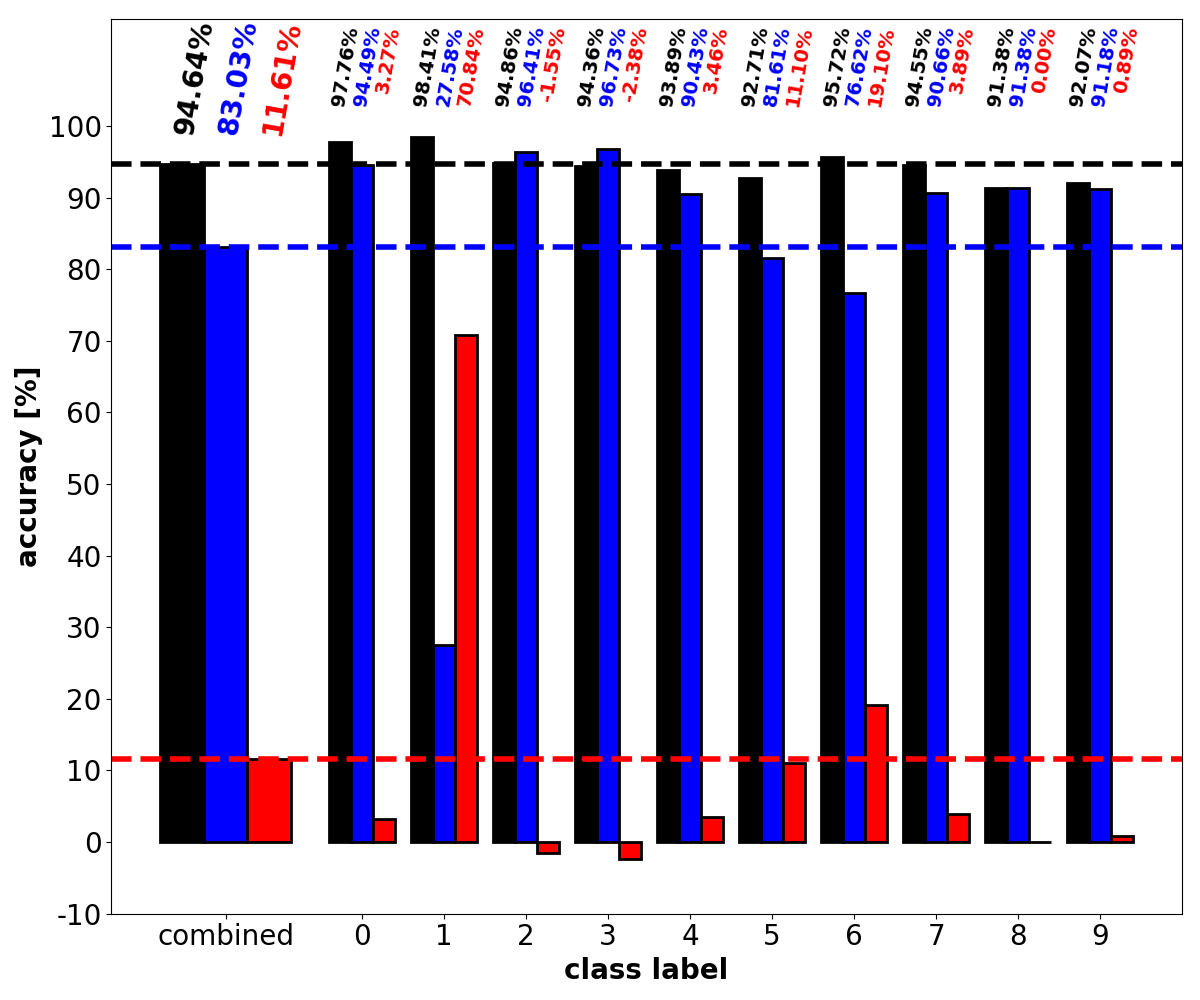
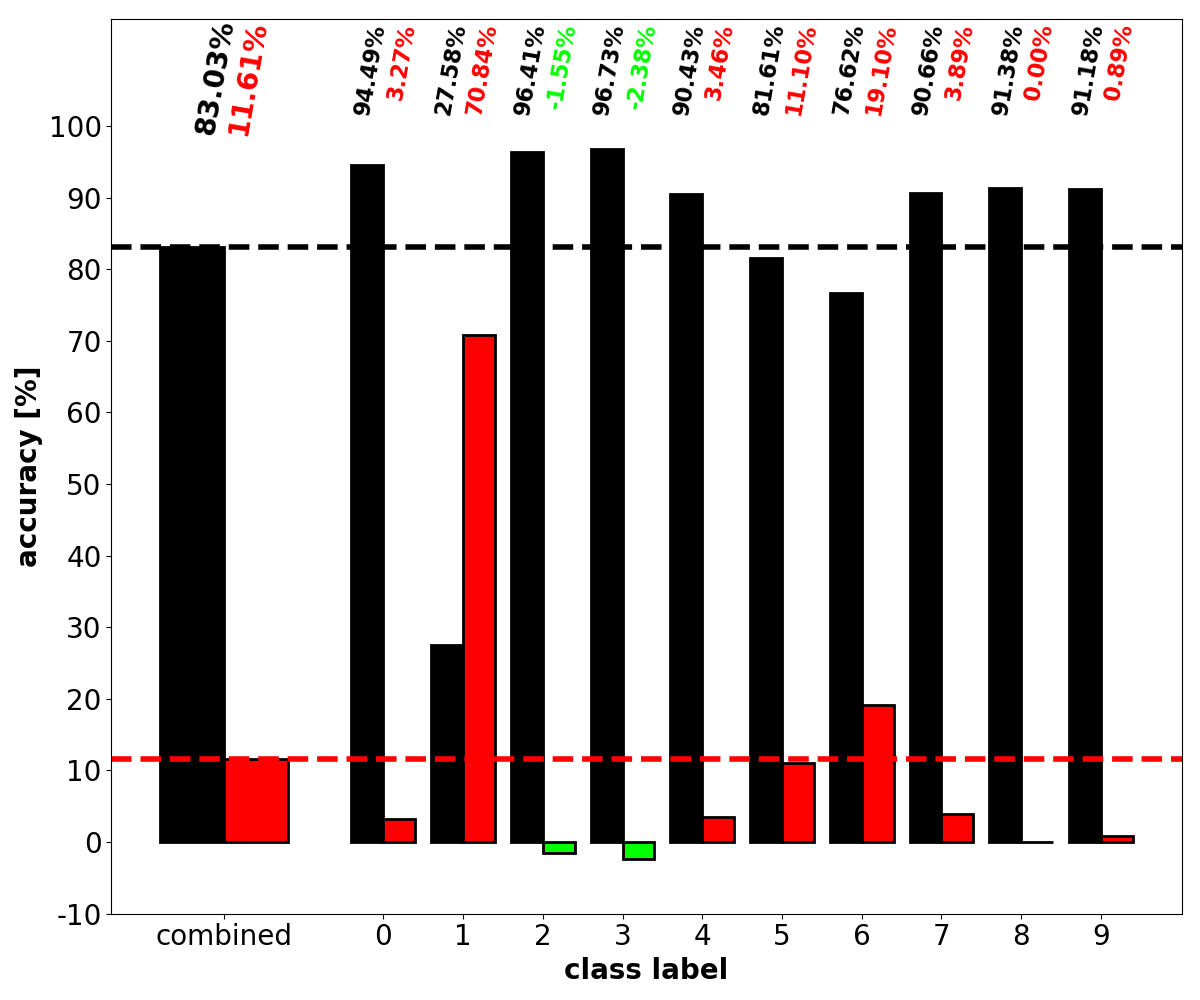
more plots for paper

diff --git a/MNIST/code/plot_knockouts_l1.py b/MNIST/code/plot_knockouts_l1.py
@@ -233,6 +233,51 @@ def plot_unit_class_acc2(accs, accs_class, title, name):
     plt.savefig("../plots/unit_acc_" + name)
     # plt.show()
 
+def plot_unit_class_acc2_paper(accs, accs_class, title, name):
+    fig = plt.figure(figsize=(12, 10))
+    fig.subplots_adjust(left=0.07, right=0.95, top=0.95, bottom=0.05)
+    ax = fig.add_subplot(111)
+
+    bar_pos = np.linspace(-2, 18, 11, endpoint=True)
+    bar_pos[0] -= 2.0
+    bar_widths = np.zeros(11) + 0.8
+    bar_widths[0] += 0.8
+    bar_heights1 = np.insert(accs_class[0]*100, 0, accs[0])
+    bar_heights2 = np.insert((accs_class[0]-accs_class[1]) * 100, 0, accs[0]-accs[1])
+    bar_heights3 = bar_heights1-bar_heights2
+
+    ax.bar(x=bar_pos - 0.5*bar_widths, align='center', height=bar_heights3, width=bar_widths,
+           color='k', edgecolor='k', lw=2)
+    ax.bar(x=bar_pos + 0.5*bar_widths, align='center', height=bar_heights2, width=bar_widths,
+           color='r', edgecolor='k', lw=2)
+    colors = ['k', 'r']
+    for i_bars, bar_heights in enumerate([bar_heights3, bar_heights2]):
+        for i, val in enumerate(bar_heights):
+            if i == 0:
+                ax.text(bar_pos[i]-0.8+0.8*i_bars, 112, "{0:.2f}%".format(val), color=colors[i_bars],
+                        fontsize=20, fontweight='bold', rotation=80)
+            else:
+                if val < 0:
+                    color = 'lime'
+                else:
+                    color = colors[i_bars]
+                ax.text(bar_pos[i] - 0.8 + 0.8*i_bars, 112, "{0:.2f}%".format(val), color=color,
+                        fontsize=16, fontweight='bold', rotation=80)
+    ax.axhline(y=accs[1], ls='--', lw=4, c='k')
+    ax.axhline(y=accs[0]-accs[1], ls='--', lw=4, c='r')
+    ax.set_xlabel("class label", fontsize=20, fontweight='bold')
+    ax.set_ylabel("accuracy [%]", fontsize=20, fontweight='bold')
+    ax.set_yticks(np.linspace(-10, 100, 12, endpoint=True))
+    ax.set_yticklabels(ax.get_yticks().astype(int), fontsize=20)
+    ax.set_xticks(bar_pos)
+    labels = ["combined"] + np.arange(0, 10, 1).tolist()
+    ax.set_xticklabels(labels, fontsize=20)
+    # ax.set_title(title)
+    ax.set_ylim(-10, 115)
+    plt.tight_layout()
+    plt.savefig("../plots/unit_acc_" + name)
+    # plt.show()
+
 
 def plot_activation(testloader, weights, weights_ini, accs_class_full, accs_class, plot_corr_acc_act):
     inputs = testloader.dataset.test_data.numpy()
@@ -368,10 +413,10 @@ if __name__ == "__main__":
 
     device = torch.device("cuda:0" if torch.cuda.is_available() else "cpu")
     """ setting flags """
-    plot_w = True
+    plot_w = False
     plot_tSNE_ = False
     plot_corr_acc_met = False
-    plot_unit_acc = False
+    plot_unit_acc = True
     plot_a = False
     plot_corr_acc_act = False  # has only effect if plot_a is True
     plot_a_split = False
@@ -402,7 +447,7 @@ if __name__ == "__main__":
     # weights = (net.fc1.weight.data.numpy().T + net.fc1.bias.data.numpy()).T  # biases considered
     weights = net_trained.fc1.weight.data.cpu().numpy()
     scale = (np.min(weights), np.max(weights))
-    acc_full, labels, acc_class_full = net_trained.test_net(criterion, testloader, device)
+    acc_full, labels, acc_class_full, _ = net_trained.test_net(criterion, testloader, device)
     if plot_w:
         plot_weights(weights, scale, unit_struct, pixel_metrics, pixel_metrics_untrained,
                      title="trained accuracy: {0}%".format(acc_full), name="full")
@@ -415,7 +460,7 @@ if __name__ == "__main__":
 
     # plot untrained network weights
     weights_ini = net_untrained.fc1.weight.data.cpu().numpy()
-    acc_untrained, _, _ = net_untrained.test_net(criterion, testloader, device)
+    acc_untrained, _, _, _ = net_untrained.test_net(criterion, testloader, device)
     if plot_w:
         plot_weights(weights_ini, scale, unit_struct_untrained, pixel_metrics_untrained, pixel_metrics_untrained,
                      title="untrained accuracy: {0}%".format(acc_untrained), name="0full")
@@ -431,7 +476,7 @@ if __name__ == "__main__":
         net_trained.fc1.weight.data[i_unit, :] = torch.zeros(784)
         # weights = (net.fc1.weight.data.numpy().T + net.fc1.bias.data.numpy()).T  # biases considered
         weights = net_trained.fc1.weight.data.cpu().numpy()
-        acc, labels_ko, acc_class = net_trained.test_net(criterion, testloader, device)
+        acc, labels_ko, acc_class, _ = net_trained.test_net(criterion, testloader, device)
         accuracies[i_unit] = acc
         accuracies_class[i_unit] = acc_class
         unit_labels_ko[i_unit] = labels_ko
@@ -455,7 +500,10 @@ if __name__ == "__main__":
             # plot_unit_class_acc(acc_full-acc, acc_class_full-acc_class,
             #                     title="accuray: {0}%, delta_acc: {1:.2f}%".format(acc_full, acc_full-acc),
             #                     color='r', name="knockout_{0}_delta".format(i_unit+1))
-            plot_unit_class_acc2((acc_full, acc), (acc_class_full, acc_class),
+            # plot_unit_class_acc2((acc_full, acc), (acc_class_full, acc_class),
+            #                     title="knockout_{0} - accuray: {1}%, delta_acc: {2:.2f}%".format(i_unit+1, acc_full, acc_full-acc),
+            #                     name="knockout_{0}_combined".format(i_unit+1))
+            plot_unit_class_acc2_paper((acc_full, acc), (acc_class_full, acc_class),
                                 title="knockout_{0} - accuray: {1}%, delta_acc: {2:.2f}%".format(i_unit+1, acc_full, acc_full-acc),
                                 name="knockout_{0}_combined".format(i_unit+1))
 

diff --git a/MNIST/code/plot_pairwise_knockouts_l1.py b/MNIST/code/plot_pairwise_knockouts_l1.py
@@ -237,6 +237,56 @@ def plot_unit_class_acc2(accs, accs_class, class_perc_redun, title, name):
     plt.savefig("../plots/unit_acc_" + name)
     # plt.show()
 
+def plot_unit_class_acc2_paper(accs, accs_class, class_perc_redun, title, name):
+    fig = plt.figure(figsize=(12, 10))
+    fig.subplots_adjust(left=0.07, right=0.95, top=0.95, bottom=0.05)
+    ax = fig.add_subplot(111)
+
+    bar_pos = np.linspace(-3, 27, 11, endpoint=True)
+    bar_pos[0] -= 2.0
+    bar_widths = np.zeros(11) + 0.8
+    bar_widths[0] += 0.8
+    bar_heights1 = np.insert(accs_class[0]*100, 0, accs[0])
+    bar_heights2 = np.insert((accs_class[0]-accs_class[1]) * 100, 0, accs[0]-accs[1])
+    bar_heights3 = bar_heights1-bar_heights2
+    bar_heights4 = class_perc_redun*100
+    bar_heights2 -= bar_heights4
+
+    ax.bar(x=bar_pos - bar_widths, align='center', height=bar_heights3, width=bar_widths,
+           color='k', edgecolor='k', lw=2)
+    ax.bar(x=bar_pos, align='center', height=bar_heights2, width=bar_widths,
+           color='r', edgecolor='k', lw=2)
+    ax.bar(x=bar_pos + bar_widths, align='center', height=bar_heights4, width=bar_widths,
+           color='orange', edgecolor='k', lw=2)
+    colors = ['k', 'r', 'orange']
+    for i_bars, bar_heights in enumerate([bar_heights3, bar_heights2, bar_heights4]):
+        for i, val in enumerate(bar_heights):
+            if i == 0:
+                ax.text(bar_pos[i]-2.4+1.6*i_bars, 112, "{0:.2f}%".format(val), color=colors[i_bars],
+                        fontsize=20, fontweight='bold', rotation=80)
+            else:
+                if val < 0:
+                    color = 'lime'
+                else:
+                    color = colors[i_bars]
+                ax.text(bar_pos[i] - 1.2 + 0.8*i_bars, 112, "{0:.2f}%".format(val), color=color,
+                        fontsize=14, fontweight='bold', rotation=80)
+    ax.axhline(y=accs[1], ls='--', lw=4, c='k')
+    ax.axhline(y=accs[0]-accs[1], ls='--', lw=4, c='r')
+    ax.axhline(y=bar_heights4[0], ls='--', lw=4, c='orange')
+    ax.set_xlabel("class label", fontsize=20, fontweight='bold')
+    ax.set_ylabel("accuracy [%]", fontsize=20, fontweight='bold')
+    ax.set_yticks(np.linspace(-10, 100, 12, endpoint=True))
+    ax.set_yticklabels(ax.get_yticks().astype(int), fontsize=20)
+    ax.set_xticks(bar_pos)
+    labels = ["combined"] + np.arange(0, 10, 1).tolist()
+    ax.set_xticklabels(labels, fontsize=20)
+    # ax.set_title(title)
+    ax.set_ylim(-10, 115)
+    plt.tight_layout()
+    plt.savefig("../plots/unit_acc_" + name)
+    # plt.show()
+
 
 def plot_activation(testloader, weights, weights_ini, accs_class_full, accs_class, plot_corr_acc_act):
     inputs = testloader.dataset.test_data.numpy()
@@ -491,7 +541,10 @@ if __name__ == "__main__":
                 # plot_unit_class_acc(acc_full-acc, acc_class_full-acc_class,
                 #                     title="accuray: {0}%, delta_acc: {1:.2f}%".format(acc_full, acc_full-acc),
                 #                     color='r', name="knockout_{0}_delta".format(i_unit+1))
-                plot_unit_class_acc2((acc_full, acc, acc_i, acc_k), (acc_class_full, acc_class, acc_class_i, acc_class_k), class_perc_redun,
+                # plot_unit_class_acc2((acc_full, acc, acc_i, acc_k), (acc_class_full, acc_class, acc_class_i, acc_class_k), class_perc_redun,
+                #                     title="knockout_{0},{1} - accuray: {2}%, delta_acc: {3:.2f}%".format(i_unit+1, k_unit+1, acc_full, acc_full-acc),
+                #                     name="knockout_{0},{1}_combined".format(i_unit+1, k_unit+1))
+                plot_unit_class_acc2_paper((acc_full, acc, acc_i, acc_k), (acc_class_full, acc_class, acc_class_i, acc_class_k), class_perc_redun,
                                     title="knockout_{0},{1} - accuray: {2}%, delta_acc: {3:.2f}%".format(i_unit+1, k_unit+1, acc_full, acc_full-acc),
                                     name="knockout_{0},{1}_combined".format(i_unit+1, k_unit+1))
 
